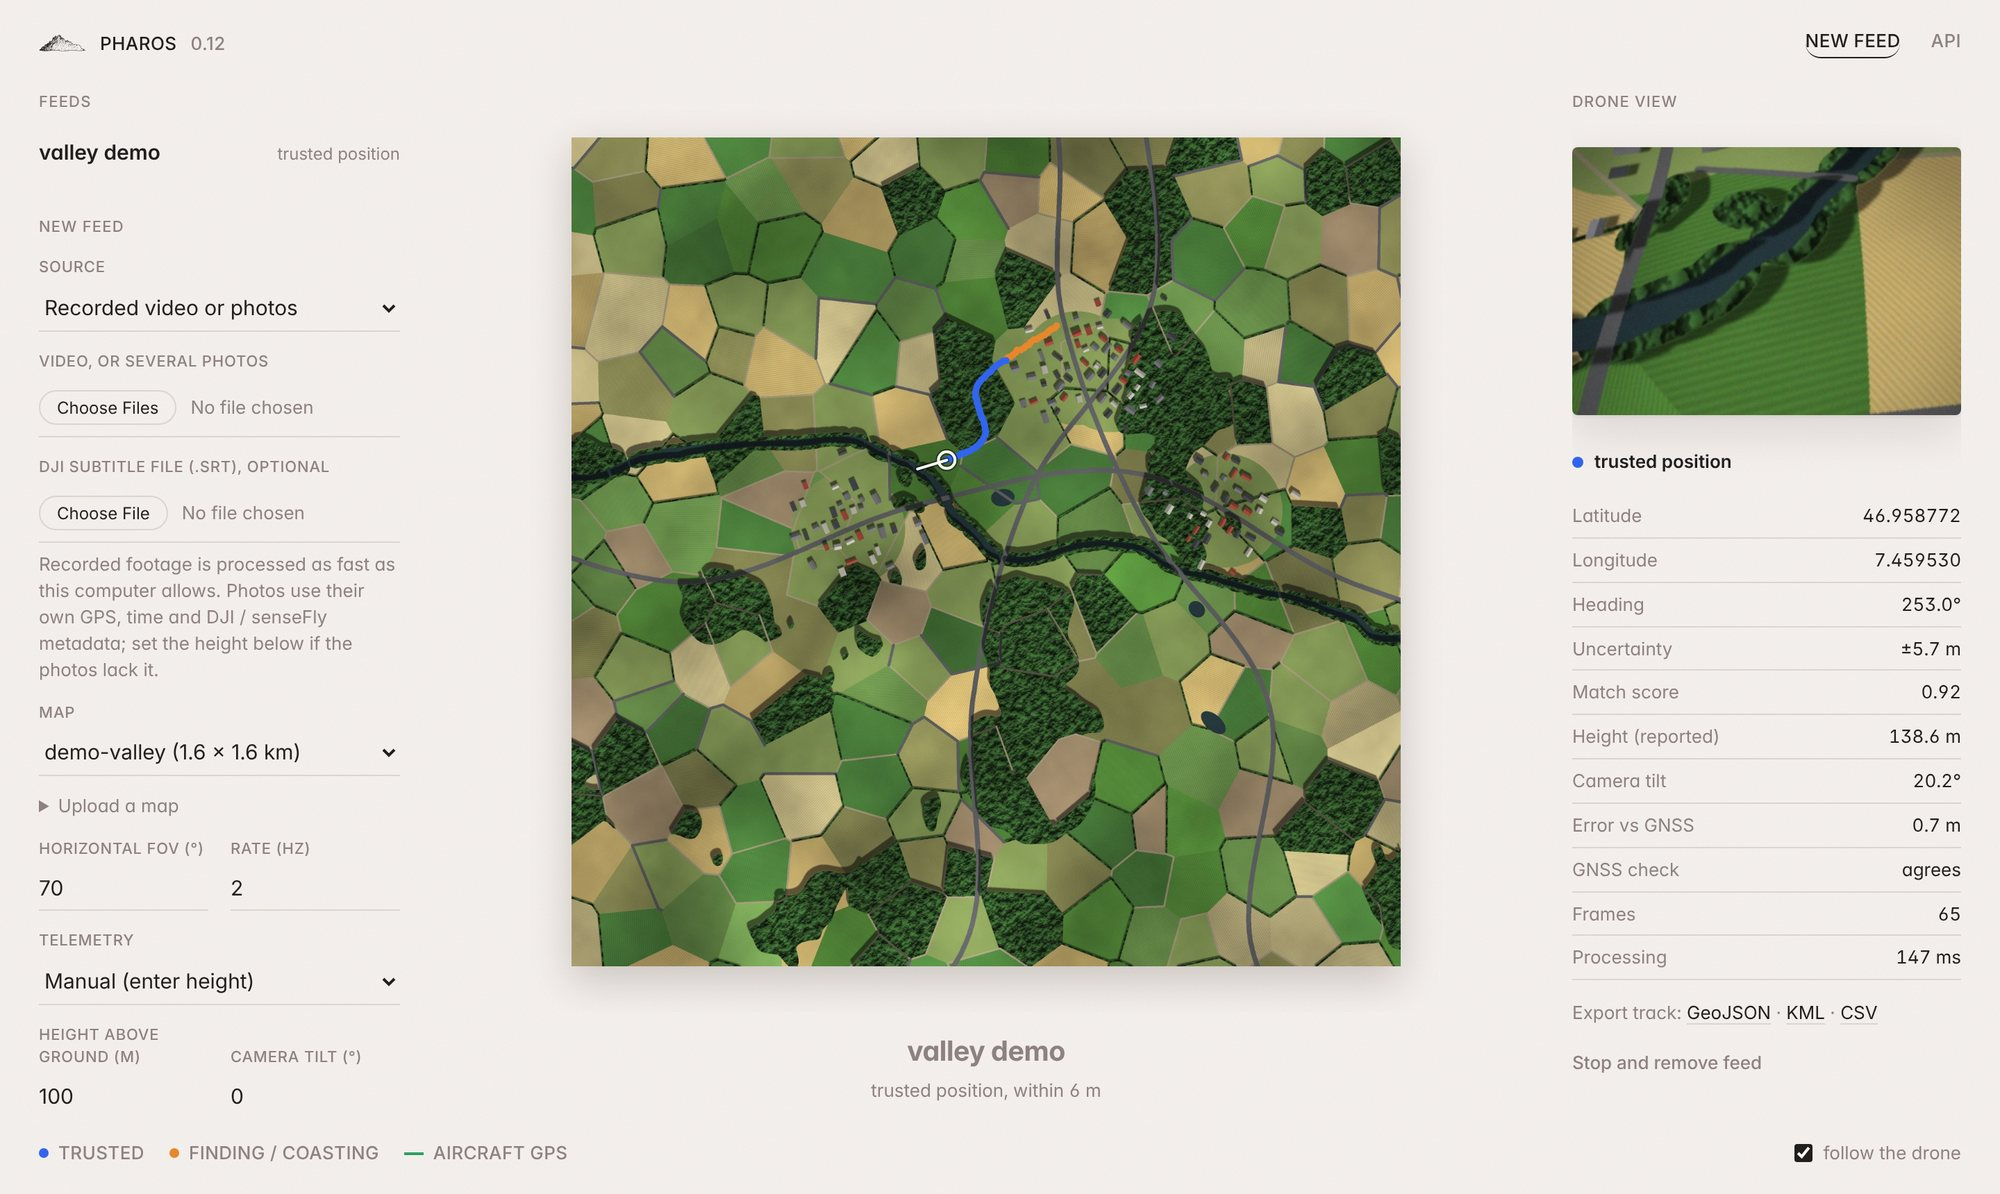
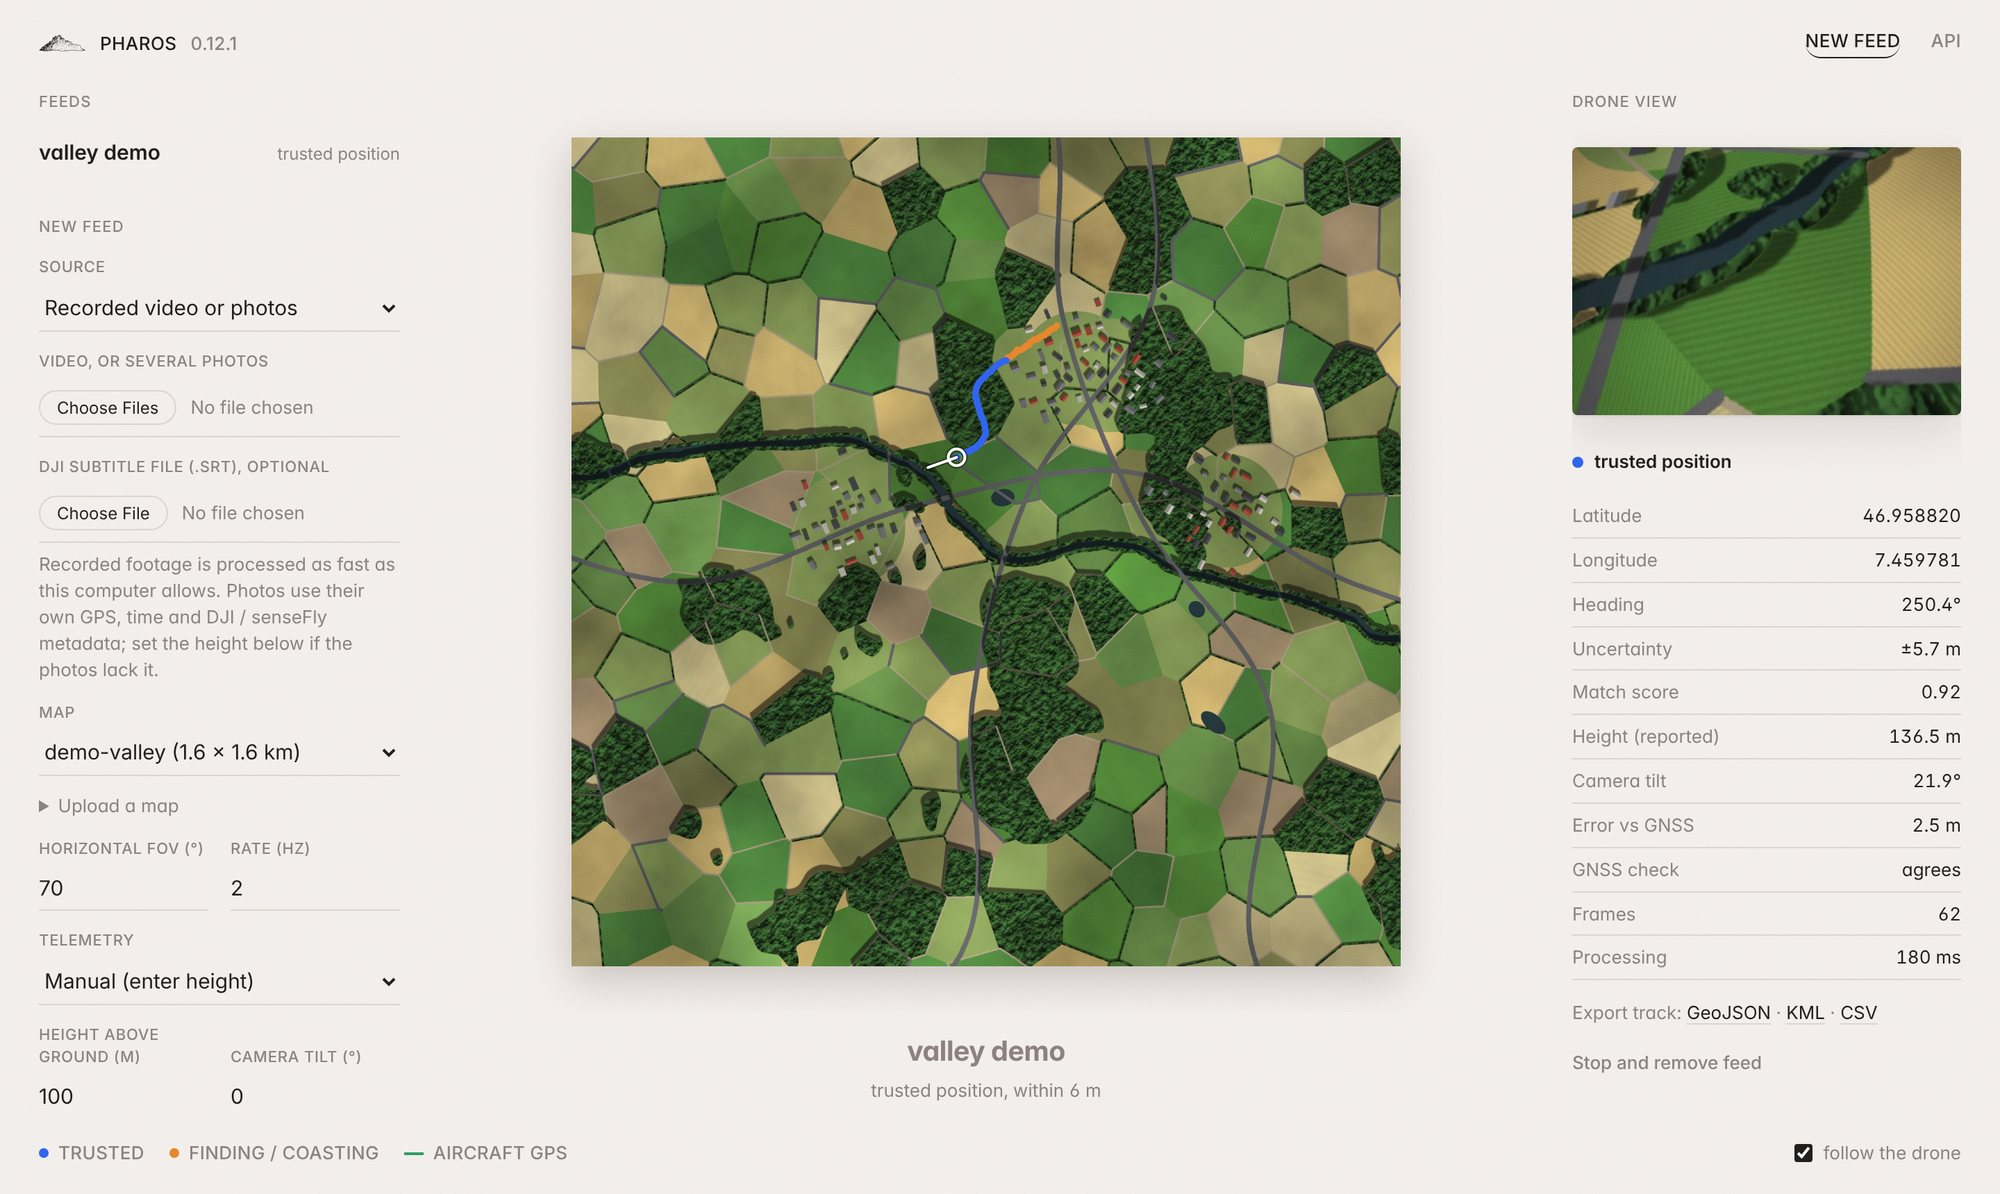
Pharos 0.12.1: clearer steps to run it on your own computer
The README now walks through installing and starting Pharos one line at
a time, with separate Windows (PowerShell) and macOS/Linux commands, a
self-contained .venv so nothing else on the computer is touched, how to
start it again and update, and fixes for the common first-run errors.
.venv is kept out of Docker builds.

Changed region(s): [[0.775, 0.124, 0.992, 0.3719], [0.465, 0.3719, 0.496, 0.4028]]

diff --git a/src/pharos/server/static/index.html b/src/pharos/server/static/index.html
@@ -3,7 +3,7 @@
 <head>
   <meta charset="utf-8">
   <meta name="viewport" content="width=device-width, initial-scale=1">
-  <title>Pharos 0.12</title>
+  <title>Pharos 0.12.1</title>
   <link rel="icon" type="image/png" href="/static/logo.png">
   <meta name="color-scheme" content="light dark">
   <link rel="preload" href="/static/fonts/Inter.woff2" as="font" type="font/woff2" crossorigin>
@@ -11,7 +11,7 @@
 </head>
 <body>
   <header class="corners">
-    <h1 class="brand"><span class="mark" aria-hidden="true"></span>Pharos <span class="version">0.12</span></h1>
+    <h1 class="brand"><span class="mark" aria-hidden="true"></span>Pharos <span class="version">0.12.1</span></h1>
     <nav>
       <button id="new-feed-btn" class="nav-link" type="button">New feed</button>
       <a class="nav-link" href="/api/docs" target="_blank" rel="noopener">API</a>

diff --git a/src/pharos/__init__.py b/src/pharos/__init__.py
@@ -1,3 +1,3 @@
 """Pharos: absolute visual localization of drone video against satellite imagery."""
 
-__version__ = "0.12"
+__version__ = "0.12.1"

diff --git a/README.md b/README.md
@@ -2,7 +2,7 @@
   <img src="docs/img/logo.png" alt="Pharos" width="420">
 </p>
 
-<h1 align="center">Pharos 0.12</h1>
+<h1 align="center">Pharos 0.12.1</h1>
 
 <p align="center">
   <a href="https://github.com/ahroonsanthosh/pharos/actions/workflows/ci.yml"><img src="https://github.com/ahroonsanthosh/pharos/actions/workflows/ci.yml/badge.svg" alt="CI"></a>
@@ -46,51 +46,106 @@ Geográfico Nacional, CC BY 4.0.</sub>
 ## Run it on your own computer
 
 Pharos is meant to run on your own machine. Nothing is sent anywhere, it
-needs no account or internet once installed, and this is the only way to
-plug in a live drone. Any recent laptop works: Windows, macOS or Linux.
+needs no account, and after the first start it works without internet.
+Any recent laptop works: Windows, macOS or Linux. There are two ways to
+install it; pick one.
 
-**With Docker (easiest).** Install
-[Docker Desktop](https://www.docker.com/products/docker-desktop/) (Docker
-Engine on Linux), then in a terminal:
+### Option A: with Python
 
-```bash
-git clone https://github.com/ahroonsanthosh/pharos.git
+You need [Git](https://git-scm.com/downloads) and
+[Python 3.11 or newer](https://www.python.org/downloads/). On Windows, tick
+**Add python.exe to PATH** when installing Python. Open a terminal
+(**PowerShell** on Windows, **Terminal** on macOS and Linux) and type each
+line on its own, pressing Enter after each one.
+
+**1. Download Pharos** (once):
+
 ```
-
-```bash
+git clone https://github.com/ahroonsanthosh/pharos.git
 cd pharos
 ```
 
+**2. Install it** into its own folder, `.venv`, so nothing else on your
+computer is touched (once; takes a minute or two):
+
+Windows (PowerShell):
+
+```powershell
+python -m venv .venv
+.\.venv\Scripts\python -m pip install -e ".[server,geo]"
+```
+
+macOS and Linux:
+
 ```bash
+python3 -m venv .venv
+.venv/bin/python -m pip install -e ".[server,geo]"
+```
+
+**3. Start it.** Your browser opens the dashboard at
+**http://localhost:8000**:
+
+Windows (PowerShell):
+
+```powershell
+.\.venv\Scripts\pharos serve --open
+```
+
+macOS and Linux:
+
+```bash
+.venv/bin/pharos serve --open
+```
+
+Stop it with `Ctrl+C` in the terminal. **Next time**, open a terminal, go
+into the folder with `cd pharos`, and run step 3 again.
+
+**To update** to the latest version later, from the `pharos` folder run
+`git pull`, then step 2's second line again.
+
+### Option B: with Docker (includes live-stream support)
+
+Install [Docker Desktop](https://www.docker.com/products/docker-desktop/)
+(Docker Engine on Linux) and start it. Then, after step 1 above:
+
+```
 docker compose up
 ```
 
 The first start builds everything and takes a few minutes; after that it
-starts in seconds. Open **http://localhost:8000** in your browser. Stop it
-with `Ctrl+C`. Your maps and uploaded videos stay in the `pharos-data`
-folder.
+starts in seconds. Open **http://localhost:8000**. Stop it with `Ctrl+C`.
+Your maps and uploaded videos stay in the `pharos-data` folder. This option
+also runs [MediaMTX](https://github.com/bluenviron/mediamtx), which receives
+video pushed from a drone controller or OBS; with Option A, run MediaMTX
+yourself if you need that.
 
-**Without Docker.** With Python 3.11 or newer, from the `pharos` folder:
+### If something goes wrong
 
-```bash
-pip install -e ".[server,geo]"
-```
+* **`'pharos' is not recognized`** or **`does not appear to be a Python
+  project`**: you are not inside the `pharos` folder, or skipped step 2.
+  Run `cd pharos` first, and start Pharos with the full path from step 3.
+* **`The module '.venv' could not be loaded`** or **`no such option`**:
+  step 2 didn't finish. Run its second line again on its own, paste it
+  only once, and wait until it ends before starting Pharos.
+* **`'&&' is not a valid statement separator`**: older PowerShell runs one
+  command per line. Type each line separately.
+* **`python` is not found, or the version is below 3.11**: install Python
+  from python.org (tick **Add python.exe to PATH**), then open a new
+  terminal.
+* **`destination path 'pharos' already exists`**: you downloaded it before.
+  Run `cd pharos`, then `git pull` to update it.
+* **The page doesn't open**: go to http://localhost:8000 yourself while the
+  terminal is still running.
 
-```bash
-pharos serve --open
-```
+### First run
 
-That opens the dashboard in your browser. Live streams pushed from a drone
-controller also need [MediaMTX](https://github.com/bluenviron/mediamtx/releases)
-running alongside (Docker includes it).
-
-**First run.** Click **New feed**, keep **Demo flight** and press
-**Start**. A simulated flight is generated and tracked live in about 15 s.
-After that, try your own footage: a DJI controller or OBS over RTMP/SRT,
-RTSP/HLS/UDP streams, a capture card or webcam, or recorded video with its
-DJI `.SRT` file. If the drone reports GPS, I draw it next to the estimate so
-you can judge the accuracy for yourself. Setup for each source, ports and
-firewall notes are in [docs/laptop.md](docs/laptop.md).
+Click **Start the demo flight**. A simulated flight is generated and tracked
+live in about 15 s. After that, use **New feed** for your own footage: a DJI
+controller or OBS over RTMP/SRT, RTSP/HLS/UDP streams, a capture card or
+webcam, or recorded video with its DJI `.SRT` file. If the drone reports
+GPS, I draw it next to the estimate so you can judge the accuracy for
+yourself. Setup for each source, ports and firewall notes are in
+[docs/laptop.md](docs/laptop.md).
 
 ![Adding a feed](docs/img/feed.jpg)
 
@@ -100,6 +155,9 @@ receiver that looks confident but is drifting away, which is exactly what a
 spoofed one does.
 
 ## Recorded footage
+
+From the `pharos` folder (with Option A, write `.\.venv\Scripts\pharos` on
+Windows or `.venv/bin/pharos` on macOS and Linux instead of `pharos`):
 
 ```bash
 pharos analyze DJI_0042.MP4 --map area.tif --hfov 70
@@ -136,6 +194,8 @@ OpenAerialMap or Sentinel-2. More detail in
 [docs/architecture.md](docs/architecture.md).
 
 ## Working on it
+
+With the environment from Option A activated (or using its full paths):
 
 ```bash
 pip install -e ".[dev,server,geo]"
